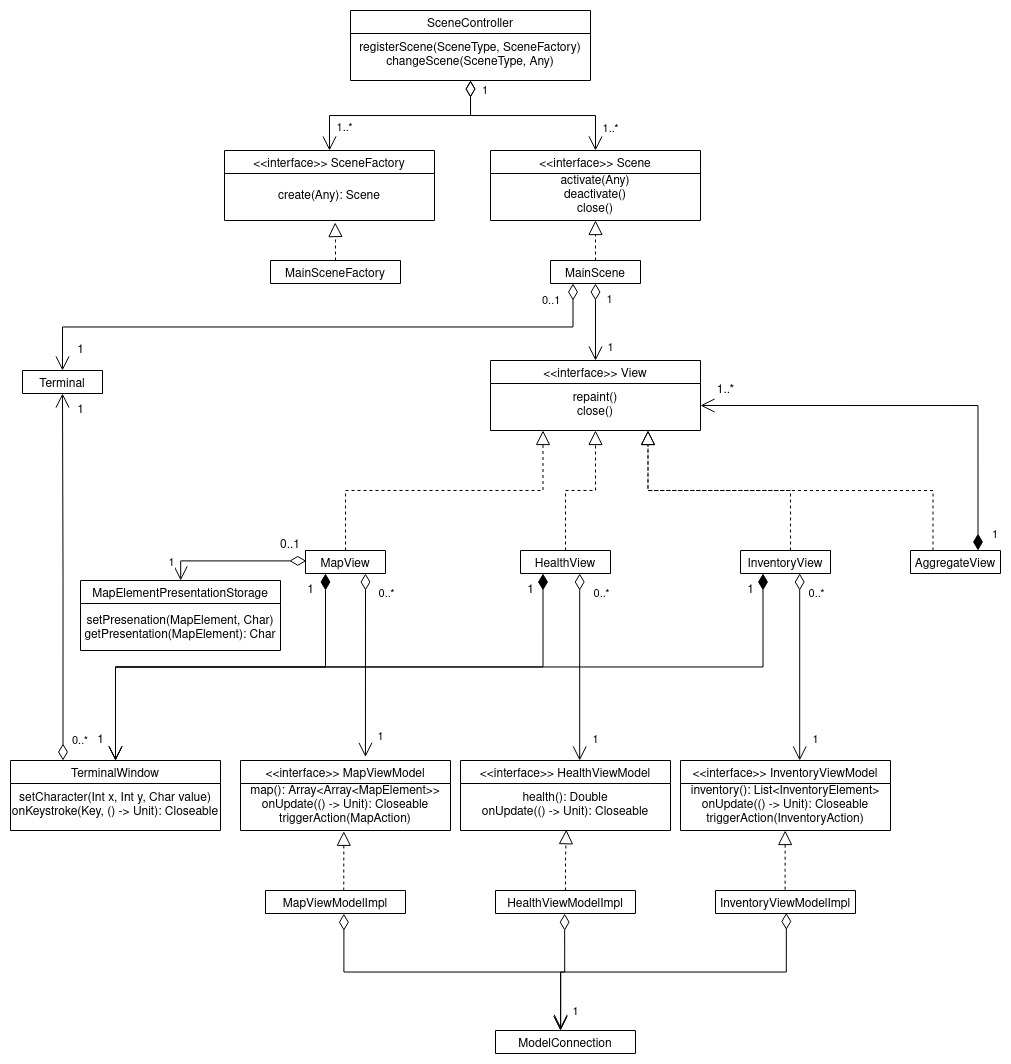
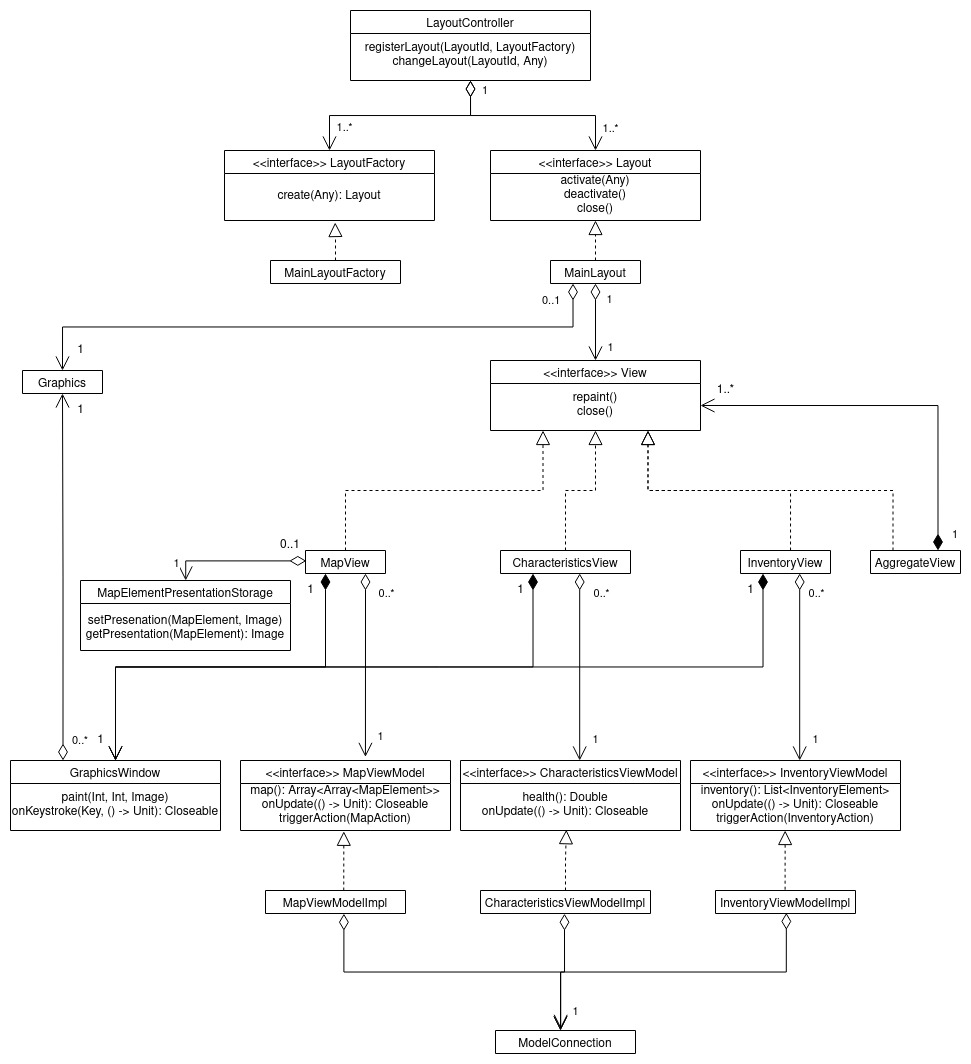
Fixes

diff --git a/VIEW_CLASSES.md b/VIEW_CLASSES.md
@@ -1,0 +1,72 @@
+# Диаграмма классов для подсистемы View
+
+![](VIEW_CLASSES.jpg)
+
+## LayoutController
+
+Контролирует то, какой Layout сейчас отображается в окне.
+
+## Layout
+
+Контролирует отображение элементов в окне, их перерисовку и обрабатывает нажатие hotkey.
+
+## MainLayout
+
+Основной `Layout`, содержащий карту, инвентарь и характеристики игрока 
+
+## LayoutFactory
+
+Фабрика порождающая `Layout`. 
+Нужна для того, чтобы `LayoutController` мог удалять те, которые редко используются.
+
+## MainLayoutFactory
+
+Фабрика порождающая `MainLayout`.
+
+## Graphics
+
+Библиотечный класс для отрисовки графики.
+
+## GraphicsWindow
+
+Класс, инкапсулирующий подокно во всём окне для отрисовки графики.
+
+## View
+
+Элемент `Layout`, отвечающий за отрисовку какой-то определённой части сцены.  
+
+## MapView
+
+Отрисовывает карту.
+
+## CharacteristicsView
+
+Отрисовывает характеристики игрока.
+
+## InventoryView
+
+Отрисовывает инвентарь игрока.
+
+## AggregateView
+
+Разделяет окно на меньшие и передаёт отрисовку другим `View`.
+
+## MapElementPresentationStorage
+
+Хранилище картинок для элементов карты.
+
+## MapViewModel
+
+Отображает состояние карты для `MapView`.
+
+## CharacteristicsViewModel
+
+Отображает состояние характеристик для `CharacteristicsView`.
+
+## InventoryViewModel
+
+Отображает состояние инвентаря для `InventoryView`.
+
+## ModelConnection
+
+Выставляет API модели 

diff --git a/COMPONENTS.md b/COMPONENTS.md
@@ -1,4 +1,6 @@
-# Описание диаграммы компонентов
+# Диаграмма компонентов
+
+![](COMPONENTS.jpeg)
 
 Приложение спроектировано в клиент-серверной архитектуре с использованием паттерна MVVM.
 
@@ -15,9 +17,9 @@
 
 Следит за состоянием инвентаря у модели, поддерживает данные в удобном для представления формате.
 
-### Health view model
+### Characteristics view model
 
-Следит за состоянием здоровья у модели, поддерживает данные в удобном для представления формате.
+Следит за состоянием характеристик игрока у модели, поддерживает данные в удобном для представления формате.
 
 ### Inventory view
 
@@ -27,9 +29,9 @@
 
 Отрисовывает окно карты и обрабатывает соответствующие нажатия.
 
-### Health view
+### Characteristics view
 
-Отрисовывает окно здоровья и обрабатывает соответствующие нажатия.
+Отрисовывает окно характеристик игрока и обрабатывает соответствующие нажатия.
 
 ## Model
 
